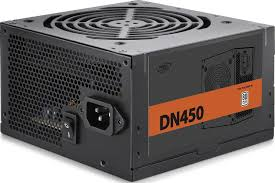
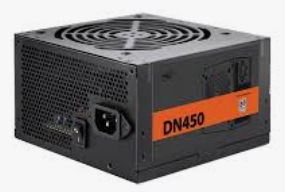
UPDATE

diff --git a/resources/views/layouts/app.blade.php b/resources/views/layouts/app.blade.php
@@ -248,6 +248,210 @@
         border-radius: 50%;
         border: 2px solid white;
     }
+
+ /* ======================================================== */
+    /* 📱 CSS RESPONSIVE KHUSUS MOBILE (MAX-WIDTH: 768px)       */
+    /* ======================================================== */
+    /* ======================================================== */
+    /* 📱 CSS RESPONSIVE KHUSUS MOBILE (MAX-WIDTH: 768px)       */
+    /* ======================================================== */
+    @media (max-width: 768px) {
+        
+        /* 1. OBAT ANTI GESER LAYAR (HORIZONTAL OVERFLOW FIX) */
+        html, body {
+            overflow-x: hidden !important;
+            max-width: 100vw !important;
+            position: relative;
+        }
+        .navbar, .container-fluid, header {
+            max-width: 100vw !important;
+            /* overflow-x: hidden; DIHAPUS DARI HEADER AGAR POPUP SELAMAT! */
+        }
+
+        /* ================================================== */
+        /* FIX UKURAN POPUP PROFIL & KERANJANG BIAR PAS DI HP */
+        /* ================================================== */
+        .auth-dropdown-menu {
+            width: 250px !important; 
+            right: -30px !important; 
+            padding: 15px !important;
+        }
+        .cart-dropdown-menu {
+            width: 290px !important; 
+            right: -10px !important;
+            padding: 15px !important;
+        }
+
+        /* 2. MENGECILKAN HEADER (LOGO, SEARCH, PROFIL, CART) */
+        .navbar-top .container {
+            display: flex !important;
+            flex-wrap: nowrap !important;
+            align-items: center !important;
+            justify-content: space-between !important;
+            gap: 8px !important;
+            padding: 10px 15px 5px !important;
+        }
+        
+        /* Logo Relaska */
+        .navbar-brand { margin-right: 0 !important; padding: 0 !important; }
+        .navbar-brand img { height: 22px !important; width: auto !important; }
+
+        /* MENGHILANGKAN SEARCH BAR KHUSUS DI HP */
+        .search-container {
+            display: none !important; 
+        }
+
+        /* Teks Sign In / Nama User (ANTI-PATAH) */
+        .auth-hover-container a { 
+            font-size: 11px !important; 
+            gap: 4px !important; 
+            white-space: nowrap !important; 
+        }
+        .auth-hover-container a i.fs-5 { font-size: 14px !important; }
+        
+        /* Ikon & Teks Keranjang (ANTI-PATAH) */
+        #navbar-cart-icon i.bi-cart3 { font-size: 18px !important; }
+        .cart-hover-container .fw-bold { 
+            font-size: 10px !important; 
+            white-space: nowrap !important; 
+        }
+        .cart-hover-container small { 
+            font-size: 9px !important; 
+            white-space: nowrap !important; 
+        }
+        .cart-indicator { width: 8px; height: 8px; top: -2px; right: 0px; }
+        
+        /* Hilangkan garis pemisah vertikal di HP */
+        .navbar-top .vr { display: none !important; }
+
+        /* 3. FIX MENU KATEGORI MACET BIAR BISA DI-SWIPE */
+        #navbar-categories {
+            display: flex !important;
+            flex-direction: row !important;
+            flex-wrap: nowrap !important;
+            overflow-x: auto !important;
+            -webkit-overflow-scrolling: touch !important; 
+            width: 100% !important;
+            padding-bottom: 8px !important;
+            padding-top: 8px !important;
+            justify-content: flex-start !important; 
+            gap: 5px;
+        }
+        
+        #navbar-categories .nav-link-custom {
+            flex: 0 0 auto !important; 
+            white-space: nowrap !important;
+            font-size: 11.5px !important;
+            padding: 4px 10px !important;
+        }
+        
+        #navbar-categories::-webkit-scrollbar { display: none; }
+        .nav-magic-line { display: none !important; }
+        .btn-pc-builder-nav { margin-left: 5px !important; font-size: 11px !important; padding: 4px 12px !important; }
+
+        /* ================================================== */
+        /* 4. PERBAIKAN SISA HALAMAN LAINNYA                  */
+        /* ================================================== */
+        
+        /* FIX REKOMENDASI PRODUK 2x2 */
+        .recommended-section .row { margin-right: -5px !important; margin-left: -5px !important; }
+        .recommended-section .col-md-3 { flex: 0 0 50% !important; max-width: 50% !important; padding-right: 5px !important; padding-left: 5px !important; margin-bottom: 10px !important; }
+        .product-grid-card { padding: 10px !important; }
+        .product-img-box { height: 100px !important; margin-bottom: 10px !important; }
+        .product-name { font-size: 11px !important; height: 32px !important; line-height: 1.3 !important; margin-bottom: 5px !important; }
+        .product-price { font-size: 12.5px !important; }
+        .product-grid-card .badge { font-size: 8px !important; padding: 3px 6px !important; }
+
+        /* FIX INOVASI - DITURUNIN BIAR GAK KETUTUP BANNER */
+        .innovation-section { 
+            margin-top: 10px !important; 
+            padding: 20px 5px 15px !important; 
+            position: relative;
+            z-index: 10;
+        }
+        .innovation-section > .container { 
+            display: flex !important;
+            flex-direction: row !important; 
+            flex-wrap: nowrap !important;
+            justify-content: center !important;
+            align-items: flex-start !important; 
+            gap: 2px !important; 
+            padding: 0 !important;
+        }
+        .innovation-section > .container > .d-flex { 
+            flex-direction: column !important; 
+            align-items: center !important; 
+            text-align: center !important; 
+            width: 33.33% !important; 
+            padding: 0 2px !important; 
+        }
+        .innovation-section img { 
+            width: 26px !important; 
+            height: auto !important;
+            margin-bottom: 6px !important; 
+            display: block !important;
+        }
+        .innovation-section h6 { 
+            font-size: 9.5px !important; 
+            margin-bottom: 2px !important; 
+            white-space: nowrap !important; 
+            font-weight: 800 !important;
+            color: #1e1e1e !important;
+        }
+        .innovation-section small { 
+            font-size: 7.5px !important; 
+            line-height: 1.1 !important; 
+            display: block !important; 
+            color: #6c757d !important;
+        }
+
+        /* FIX KARTU KATEGORI - Swipe Horizontal */
+        .category-section .row {
+            display: flex !important;
+            flex-wrap: nowrap !important;
+            overflow-x: auto !important;
+            -webkit-overflow-scrolling: touch !important; 
+            padding-bottom: 15px;
+            margin: 0 !important;
+            gap: 15px;
+        }
+        .category-section .row::-webkit-scrollbar { display: none; }
+        .category-section .col-md-6, .category-section .col-md-4 {
+            flex: 0 0 85% !important; 
+            max-width: 85% !important;
+            padding: 0 !important;
+        }
+        
+        .cat-card { padding: 20px 15px !important; gap: 10px !important; display: flex !important; flex-direction: row !important; align-items: center !important; justify-content: space-between !important; }
+        .cat-card.big, .cat-card.small { min-height: 130px; }
+        .cat-info { margin: 0 !important; padding: 0 !important; flex: 1; }
+        .cat-info h4, .cat-info h6 { font-size: 15px !important; margin-bottom: 5px; }
+        .cat-info span { font-size: 11px !important; }
+        .cat-card img { max-width: 100px !important; margin: 0 !important; }
+
+        /* Sisa Halaman Lainnya */
+        .utility-bar { padding: 80px 15px 40px; font-size: 12px; flex-direction: column; text-align: center; margin-top: -50px; }
+        .utility-bar .marquee-container { width: 100%; margin: 15px 0 !important; }
+        .promo-section { margin-top: 50px; padding-top: 40px; }
+        .carousel-control-prev, .carousel-control-next { width: 30px !important; height: 30px !important; }
+        .carousel-control-prev i, .carousel-control-next i { font-size: 14px !important; }
+
+        .profile-card-wrapper, .main-content-area { margin-top: 0 !important; }
+        .tier-banner-pink { display: flex; flex-direction: column; align-items: center; text-align: center; padding-top: 40px !important; }
+        .profile-img-wrapper { position: relative; top: -60px; left: auto; margin-bottom: -40px; }
+        .camera-icon-btn { top: 90px; left: 60%; }
+        .tier-banner-pink > div[style*="margin-left"] { margin-left: 0 !important; padding-right: 0 !important; }
+        .order-status-box { padding: 10px 5px; min-height: 80px; }
+        .order-status-box i { font-size: 1.2rem !important; }
+        .order-status-box span { font-size: 0.6rem !important; text-align: center; display: block; line-height: 1.2; margin-top: 5px; }
+        
+        .img-main-container { height: 280px; }
+        .product-title { font-size: 1.5rem; }
+        .price-tag { font-size: 1.8rem; }
+        
+        #chat-window { width: 90vw; right: 5vw; bottom: 90px; height: 60vh; }
+        #ai-chat-widget { bottom: 15px; right: 15px; }
+    }/* <--- INI ADALAH KURUNG TUTUP YANG BENAR, MENJAGA SEMUANYA TETAP DI DALAM! */
     </style>
     @yield('styles')
 </head>

diff --git a/resources/views/landing.blade.php b/resources/views/landing.blade.php
@@ -138,6 +138,64 @@
     .product-img-box img { max-width: 85%; max-height: 85%; object-fit: contain; }
     .product-name { font-weight: 700; font-size: 0.95rem; color: #1e293b; height: 45px; overflow: hidden; margin-bottom: 8px; }
     .product-price { color: #0f172a; font-weight: 800; font-size: 1.2rem; }
+
+    /* ======================================================== */
+    /* 📱 RESPONSIVE KARTU RADAR REGRESI (GRID 2x2 DI HP)      */
+    /* ======================================================== */
+    @media (max-width: 768px) {
+        /* 1. Atur jarak barisnya agar lebih merapat */
+        .radar-section .row {
+            margin-right: -5px !important;
+            margin-left: -5px !important;
+        }
+        
+        /* 2. Paksa kolom menjadi 50% (2 menyamping) */
+        .radar-section .col-md-3 {
+            flex: 0 0 50% !important;
+            max-width: 50% !important;
+            padding-right: 5px !important;
+            padding-left: 5px !important;
+            margin-bottom: 10px !important;
+        }
+
+        /* 3. Penyesuaian isi kartu agar muat dibagi 2 */
+        .radar-card {
+            padding: 10px !important; /* Padding kartu diperkecil */
+        }
+        .radar-img-box {
+            height: 90px !important; /* Kotak gambar lebih ceper */
+            padding: 5px !important;
+            margin-bottom: 10px !important;
+        }
+        .radar-card .p-name {
+            font-size: 10.5px !important; /* Teks nama produk dikecilkan */
+            height: 30px !important; 
+            line-height: 1.3 !important;
+            margin-bottom: 5px !important;
+        }
+        .radar-card .p-price {
+            font-size: 12.5px !important; 
+        }
+        
+        /* 4. MAGIC FIX: Mengecilkan Speedometer Regresi */
+        .mini-gauge-wrapper {
+            transform: scale(0.55) !important; /* Susutkan speedometer jadi 55% */
+            transform-origin: top center !important;
+            margin-bottom: -35px !important; /* Tarik elemen di bawahnya agar ikut naik */
+            margin-top: 5px !important;
+        }
+        
+        /* 5. Kecilkan ukuran Label & Tombol */
+        .radar-card .d-flex.justify-content-between { font-size: 0.55rem !important; margin-top: -5px !important; }
+        .gauge-legend { font-size: 0.5rem !important; flex-wrap: wrap; justify-content: center; gap: 4px; }
+        .radar-card h6 { font-size: 0.75rem !important; }
+        .radar-card small { font-size: 0.6rem !important; }
+        
+        .radar-card .btn {
+            font-size: 9.5px !important;
+            padding: 5px 8px !important;
+        }
+    }
 </style>
 @endsection
 
@@ -638,6 +696,74 @@ searchInput.addEventListener('keyup', function() {
 document.addEventListener('click', function(e) {
     if (!searchInput.contains(e.target) && !searchResults.contains(e.target)) {
         searchResults.style.display = 'none';
+    }
+});
+
+
+// ========================================================
+// POP-UP KHUSUS RESPONDEN PENGUJIAN REGRESI
+// ========================================================
+// ========================================================
+// POP-UP KHUSUS RESPONDEN PENGUJIAN REGRESI (UPDATE SCROLL)
+// ========================================================
+// ========================================================
+// POP-UP KHUSUS RESPONDEN PENGUJIAN REGRESI (FINAL FIX SCROLL)
+// ========================================================
+document.addEventListener("DOMContentLoaded", function() {
+    // Cek apakah pop-up sudah pernah muncul di sesi ini
+    if (!sessionStorage.getItem('respondentPopupShown')) {
+        
+        // Kasih jeda 1 detik setelah web loading
+        setTimeout(() => {
+            Swal.fire({
+                title: 'Selamat Datang, Responden!',
+                html: 'Terima kasih telah berpartisipasi dalam pengujian sistem kami.<br><br>Fokus utama website ini adalah <b>Model Prediksi Regresi Harga Hardware (Price Trend Radar)</b>.<br><br>Apakah Anda ingin langsung diantarkan ke fitur tersebut?',
+                icon: 'info',
+                showCancelButton: true,
+                confirmButtonText: '</i> Ya, Antar Saya Kesana!',
+                cancelButtonText: 'Tidak, Biar Saya Eksplor Sendiri',
+                confirmButtonColor: '#0d6efd',
+                cancelButtonColor: '#6c757d',
+                reverseButtons: true,
+                backdrop: `rgba(0,0,0,0.6)`
+            }).then((result) => {
+                // Tandai bahwa pop-up sudah muncul
+                sessionStorage.setItem('respondentPopupShown', 'true');
+                
+                // Jika Responden klik "YA"
+                if (result.isConfirmed) {
+                    
+                    // KUNCI JAWABANNYA: Delay 400ms nunggu pop-up hilang & layar di-unlock
+                    setTimeout(() => {
+                        const radarSection = document.querySelector('.radar-section');
+                        if(radarSection) {
+                            
+                            const headerOffset = 110; 
+                            const elementPosition = radarSection.getBoundingClientRect().top;
+                            const offsetPosition = elementPosition + window.pageYOffset - headerOffset;
+      
+                            window.scrollTo({
+                                 top: offsetPosition,
+                                 behavior: "smooth"
+                            });
+                            
+                            // Beri efek Glow Biru sebagai penekanan UX
+                            setTimeout(() => {
+                                radarSection.style.transition = "box-shadow 0.8s ease-in-out";
+                                radarSection.style.boxShadow = "0 0 40px rgba(13, 110, 253, 0.6)";
+                                radarSection.style.borderRadius = "60px 60px 0 0";
+                                radarSection.style.zIndex = "100";
+                                
+                                // Hilangkan glow setelah 3 detik
+                                setTimeout(() => {
+                                    radarSection.style.boxShadow = "none";
+                                }, 3000);
+                            }, 800); // Nunggu animasi scroll selesai
+                        }
+                    }, 400); // Jeda 400ms disini!
+                }
+            });
+        }, 1000);
     }
 });
 </script>

diff --git a/resources/views/dashboard.blade.php b/resources/views/dashboard.blade.php
@@ -176,7 +176,7 @@
 
                     <div class="col-md-7">
                          <div class="row text-center gx-2 h-100">
-                            <div class="col-3 position-relative">
+                            <div class="col-6 col-md-3 position-relative mb-3">
                                 <a href="javascript:void(0)" onclick="switchTab('rakitan')" class="order-status-box">
                                     <i class="fas fa-desktop mb-2 fs-5 text-primary"></i> <span style="font-weight: 600;">Rakitan Saya</span>
                                 </a>
@@ -187,7 +187,7 @@
                                 @endif
                             </div>
 
-                            <div class="col-3 position-relative">
+                            <div class="col-6 col-md-3 position-relative mb-3">
                                 <a href="javascript:void(0)" onclick="switchTab('dikemas')" class="order-status-box">
                                     <i class="fas fa-box-open mb-2 fs-5 text-warning"></i>
                                     <span style="font-weight: 600;">Dikemas</span>
@@ -199,7 +199,7 @@
                                 @endif
                             </div>
 
-                            <div class="col-3 position-relative">
+                            <div class="col-6 col-md-3 position-relative mb-3">
                                 <a href="javascript:void(0)" onclick="switchTab('dikirim')" class="order-status-box">
                                     <i class="fas fa-truck mb-2 fs-5 text-info"></i> <span style="font-weight: 600;">Dikirim</span>
                                 </a>
@@ -208,7 +208,7 @@
                                 </span>
                             </div>
 
-                            <div class="col-3 position-relative">
+                            <div class="col-6 col-md-3 position-relative mb-3">
                                 <a href="javascript:void(0)" onclick="switchTab('penilaian')" class="order-status-box">
                                     <i class="fas fa-star mb-2 fs-5 text-success"></i> <span style="font-weight: 600;">Penilaian</span>
                                 </a>